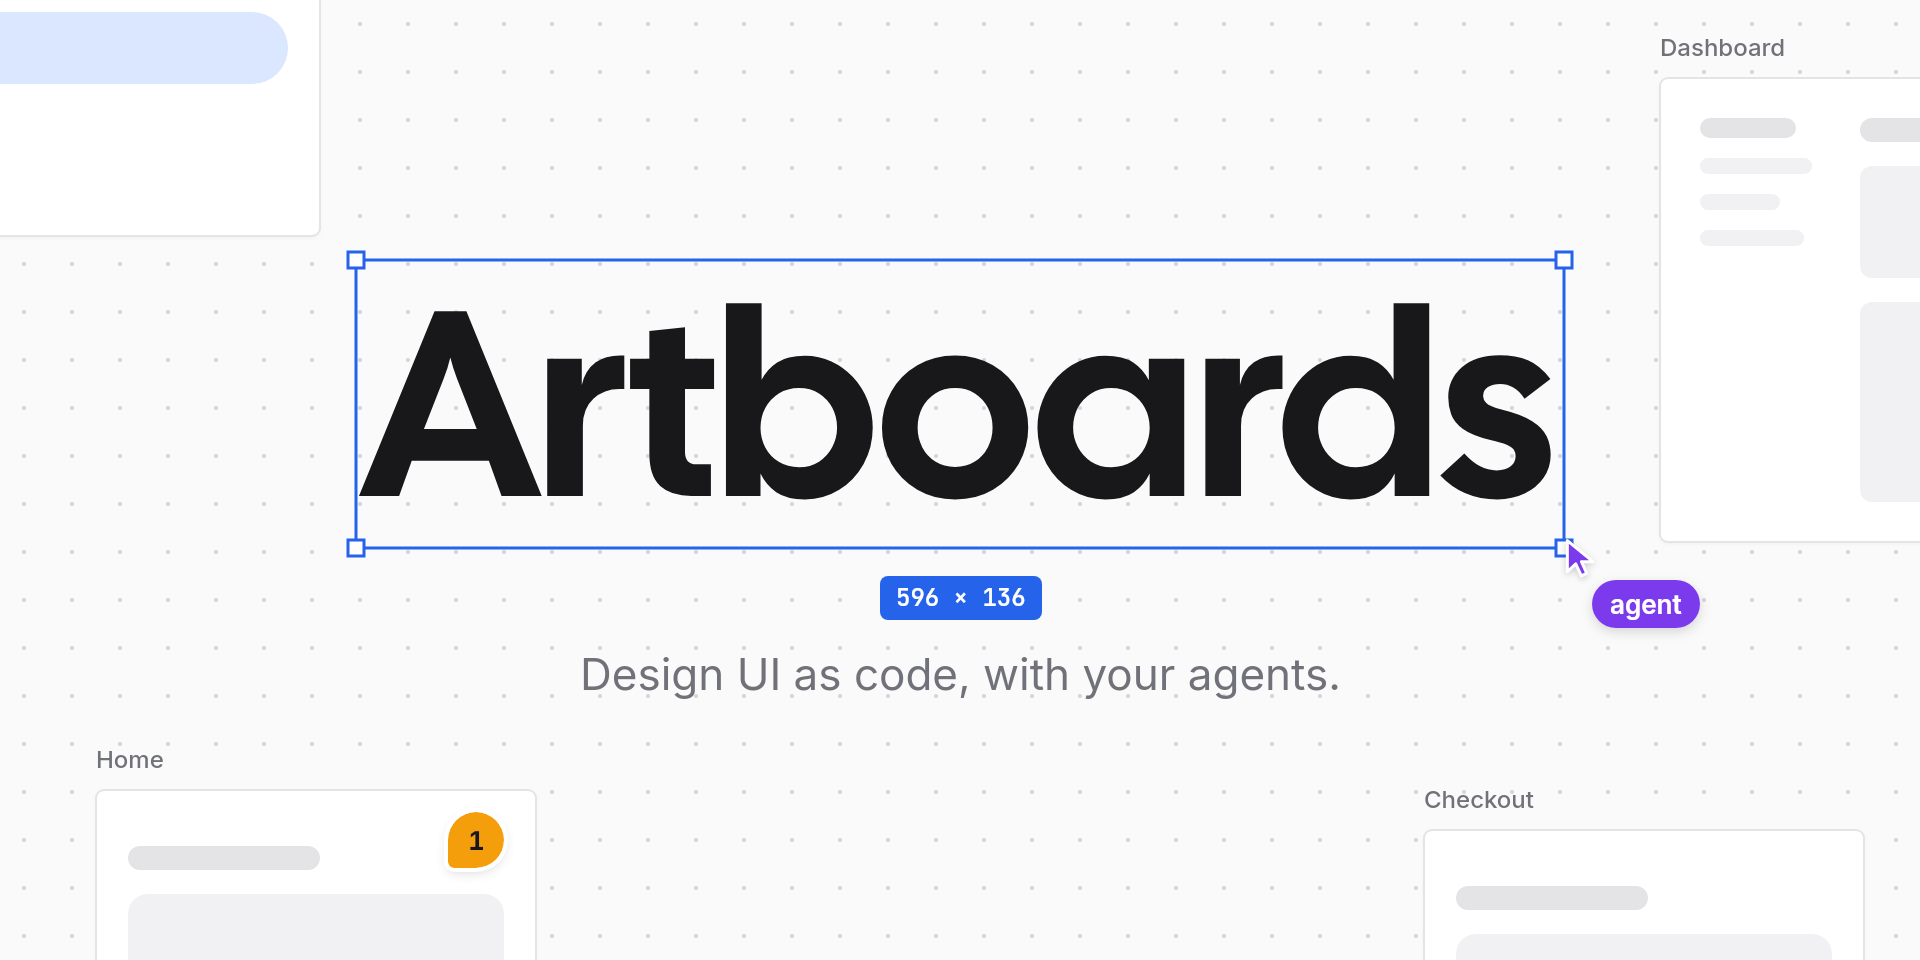
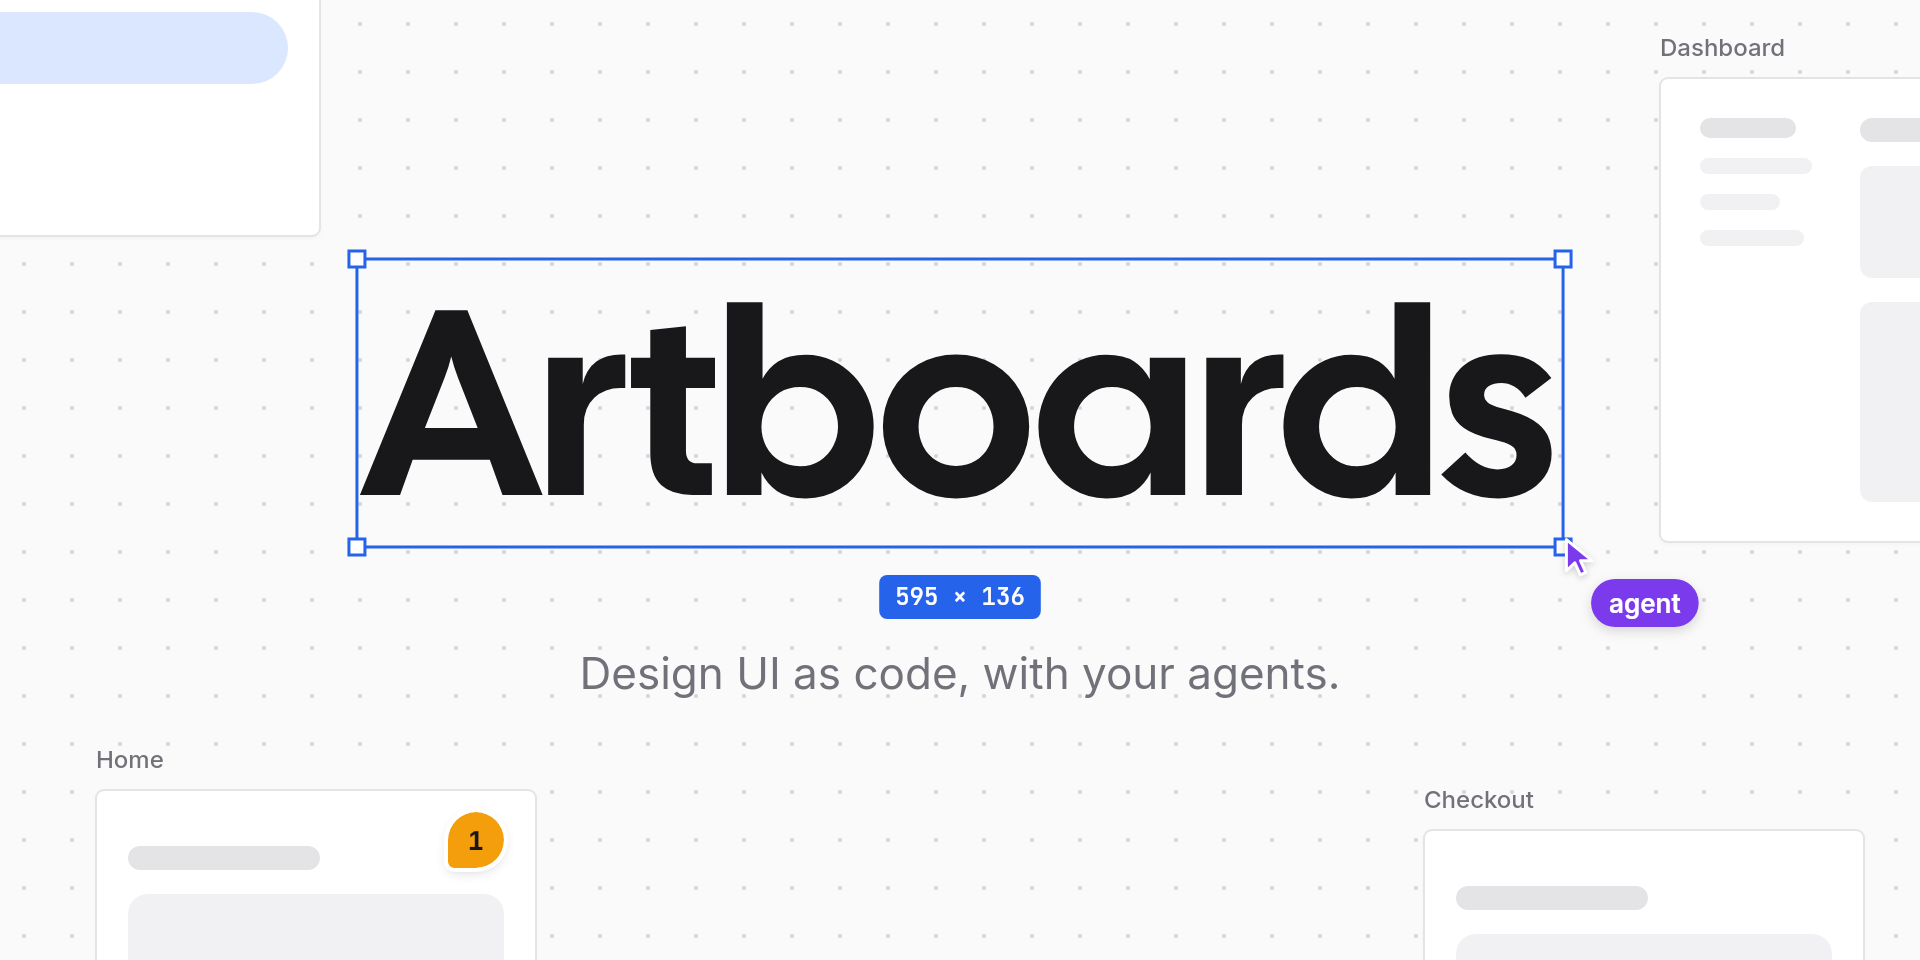
Lay out on subpixels so equal sizes stay equal and centring is exact
Taffy rounded every layout to whole pixels, snapping each edge on its own:
a 16.8 × 16.8 circle at x 11.55 came out 17 × 16. Text was also measured
with Math.ceil, so a 4.74px-wide "1" got a 5px box and drew from its left
edge, and digits centred in a badge sat up to half a pixel off, each in a
different direction.

Layout now keeps fractions (tree.disableRounding) and text is measured at
its exact advance and height. Skia's applyRoundingHack is off, because
with it a line needs its width rounded up and text in a box exactly as
wide as it would wrap. Paragraphs are laid out through layoutParagraph,
which adds 0.01px so floating-point error never breaks a line. `inspect`
prints layout to two decimals, as the viewer already shows it.

Across the 857 text layers of every example, no text got taller and lint
reports are unchanged. The header title now measures 595.06, so its size
badge reads 595 × 136 and the README image is re-rendered.

diff --git a/src/shared/text.ts b/src/shared/text.ts
@@ -140,6 +140,9 @@ export function paragraphFor(engine: TextEngine, node: PaintableNode): Paragraph
   };
 
   const style = new ck.ParagraphStyle({
+    // Break lines on exact advances. With Skia's rounding hack on, a line needs
+    // its width rounded up, so text in a box exactly as wide as it would wrap.
+    applyRoundingHack: false,
     textAlign: { left: ck.TextAlign.Left, center: ck.TextAlign.Center, right: ck.TextAlign.Right }[
       (p.textAlign ?? "left") as "left" | "center" | "right"
     ],
@@ -171,7 +174,22 @@ export interface Constraint {
   height: number | null | undefined;
 }
 
-/** Taffy measure callback body for Text nodes. */
+/**
+ * Lays a paragraph out to fill a box `width` wide. Boxes are as wide as the
+ * text's exact advance, and floating-point error could then push the last word
+ * onto a new line, so lines get a hair of slack. Left-aligned text is drawn
+ * from the box's edge as before; centred text moves by half the slack.
+ */
+export function layoutParagraph(para: Paragraph, width: number) {
+  para.layout(width + LINE_SLACK);
+}
+
+const LINE_SLACK = 0.01;
+
+/**
+ * Taffy measure callback body for Text nodes. Sizes are exact, not rounded up
+ * to whole pixels, so text centred in its parent is centred to the subpixel.
+ */
 export function measureText(
   engine: TextEngine,
   node: PaintableNode,
@@ -182,20 +200,20 @@ export function measureText(
   let width = known.width;
   if (width == null) {
     para.layout(1e7);
-    const max = Math.ceil(para.getMaxIntrinsicWidth());
-    if (available.width === "min-content") width = Math.ceil(para.getMinIntrinsicWidth());
+    const max = para.getMaxIntrinsicWidth();
+    if (available.width === "min-content") width = para.getMinIntrinsicWidth();
     else if (available.width === "max-content") width = max;
     else width = Math.min(max, available.width);
   }
-  para.layout(width);
-  return { width, height: known.height ?? Math.ceil(para.getHeight()) };
+  layoutParagraph(para, width);
+  return { width, height: known.height ?? para.getHeight() };
 }
 
 /** Height the text needs at the node's final width (may exceed a fixed height). */
 export function naturalTextHeight(engine: TextEngine, node: PaintableNode): number {
   const para = paragraphFor(engine, node);
-  para.layout(node.layout.width);
-  return Math.ceil(para.getHeight());
+  layoutParagraph(para, node.layout.width);
+  return para.getHeight();
 }
 
 export function releaseParagraphs(root: PaintableNode) {

diff --git a/src/cli/inspect.ts b/src/cli/inspect.ts
@@ -12,6 +12,10 @@ export function formatVariants(variants: VariantInfo[]): string {
   return `variants:\n${lines.join("\n")}\n`;
 }
 
+/** Layout values to two decimals: layout is subpixel, and 16.799999 reads as noise. */
+const round = (n: number) => Math.round(n * 100) / 100;
+const roundBox = (b: SceneNode["layout"]) => ({ x: round(b.x), y: round(b.y), width: round(b.width), height: round(b.height) });
+
 export function formatTree(root: SceneNode): string {
   const lines: string[] = [];
   const walk = (n: SceneNode, depth: number) => {
@@ -19,7 +23,7 @@ export function formatTree(root: SceneNode): string {
     for (const c of layerChildren(n)) walk(c, depth + 1);
   };
   const line = (n: SceneNode, depth: number) => {
-    const { x, y, width, height } = n.layout;
+    const { x, y, width, height } = roundBox(n.layout);
     if (n.component) {
       const summary = formatPropsSummary(n.component.props);
       lines.push(
@@ -43,7 +47,7 @@ export function toJson(n: SceneNode): object {
       type: "Component",
       component: n.component.name,
       props: n.component.props,
-      layout: n.layout,
+      layout: roundBox(n.layout),
       source: sourceOf(n),
       children: layerChildren(n).map(toJson),
     };
@@ -53,7 +57,7 @@ export function toJson(n: SceneNode): object {
     type: n.type,
     ...(n.type === "Text" ? { text: textContentOf(n), ...(n.runs && n.runs.length > 1 ? { runs: n.runs.map(({ text, props }) => ({ text, props })) } : {}) } : {}),
     props,
-    layout: n.layout,
+    layout: roundBox(n.layout),
     source: $source,
     children: layerChildren(n).map(toJson),
   };

diff --git a/src/shared/paint.ts b/src/shared/paint.ts
@@ -13,7 +13,7 @@ import {
   type Shadow,
   type Sides,
 } from "./scene.ts";
-import { paragraphFor, textSizeOf } from "./text.ts";
+import { layoutParagraph, paragraphFor, textSizeOf } from "./text.ts";
 
 const DEFAULT_SHADOW_COLOR = "rgba(0, 0, 0, 0.25)";
 const PLACEHOLDER_FILL = "#e5e7eb";
@@ -56,11 +56,11 @@ export function paintNode(engine: RenderEngine, canvas: Canvas, node: PaintableN
     for (const child of node.children) paintNode(engine, canvas, child, greekBelow);
   } else if (node.type === "Text" && textSizeOf(node) < greekBelow) {
     const para = paragraphFor(engine, node);
-    para.layout(w);
+    layoutParagraph(para, w);
     greekText(ck, canvas, node, para);
   } else if (node.type === "Text") {
     const para = paragraphFor(engine, node);
-    para.layout(w);
+    layoutParagraph(para, w);
     const shadows = normalizeShadows(p.shadow);
     const draw = () => canvas.drawParagraph(para, 0, 0);
     if (shadows.length > 0 && w > 0 && h > 0) drawFilteredShadows(ck, canvas, shadows, draw);

diff --git a/src/shared/layout.ts b/src/shared/layout.ts
@@ -248,6 +248,10 @@ function resolveFarInsets(root: SceneNode) {
 
 function computeLayout(root: SceneNode, engine: RenderEngine, stretched: Stretched) {
   const tree = new TaffyTree();
+  // Keep subpixel positions and sizes. Rounding to whole pixels snaps each edge
+  // on its own, so a 16.8 × 16.8 circle could come out 17 × 16, and centred
+  // content drifts by up to half a pixel. Skia paints fractions crisply enough.
+  tree.disableRounding();
   const ids = new Map<SceneNode, bigint>();
 
   const build = (node: SceneNode, parent: ParentKind): bigint => {

diff --git a/examples/artboards/header.tsx b/examples/artboards/header.tsx
@@ -26,7 +26,7 @@ function Header({ width, height, ghosts }: { width: number; height: number; ghos
             Artboards
           </Text>
         </Selection>
-        <SizeBadge>596 × 136</SizeBadge>
+        <SizeBadge>595 × 136</SizeBadge>
         <Text fontSize={22} color={color.muted}>
           Design UI as code, with your agents.
         </Text>
